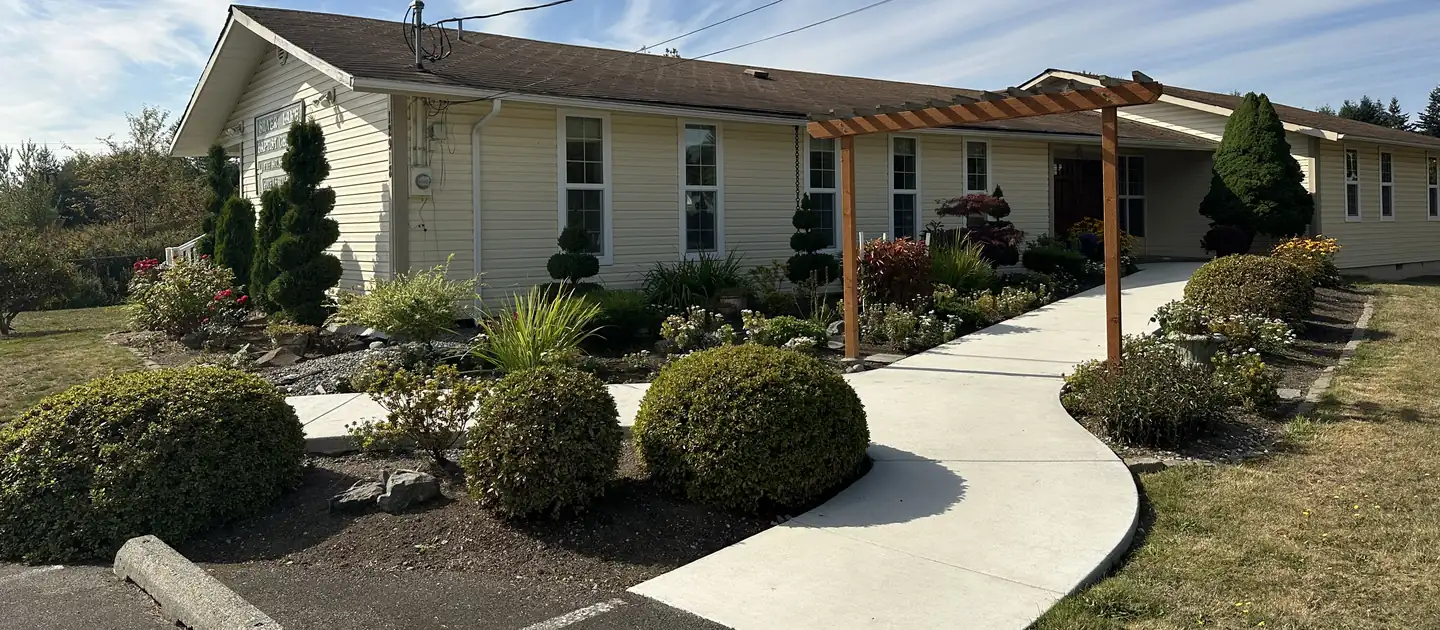
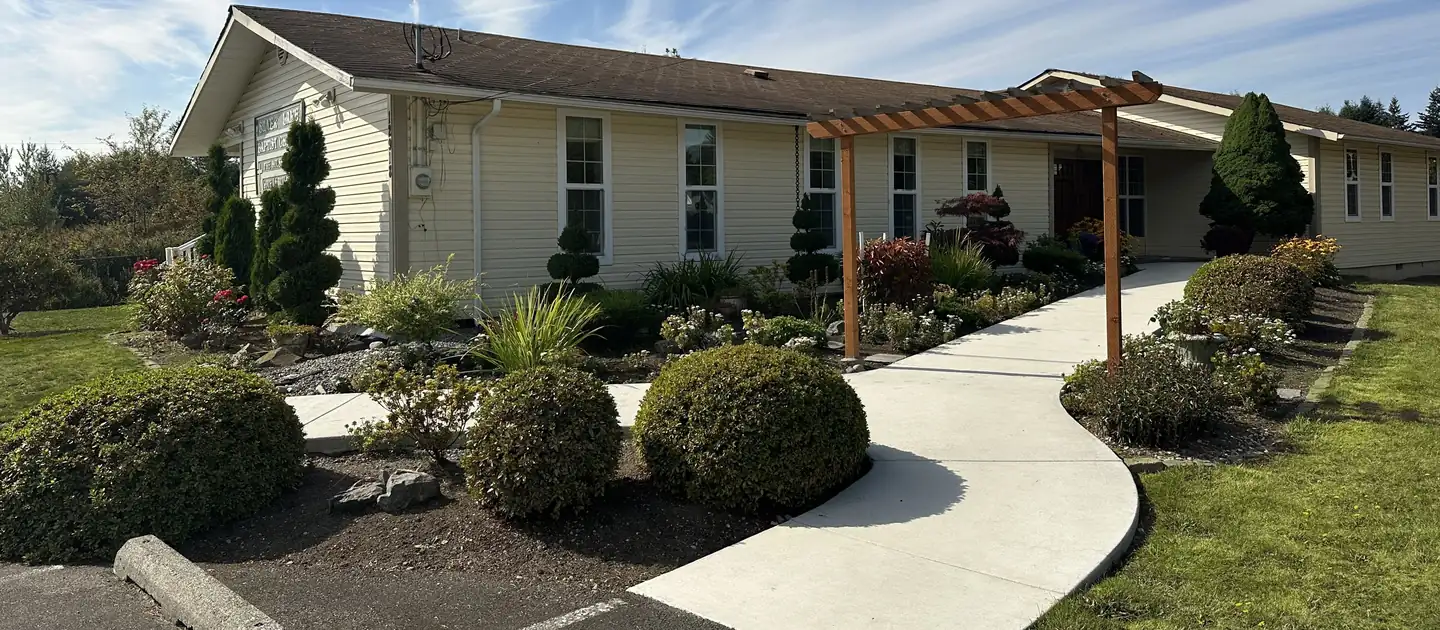
예배 탭 머리 사진: 잔디만 진한 초록 · 하늘의 전깃줄 지움

diff --git a/index.html b/index.html
@@ -1087,7 +1087,7 @@ img.onload=function(){
     
     <h2 class="sec-title"><span class="ko">흩어진 목장이 한자리에</span><span class="en">Scattered homes, gathered as one</span></h2>
     <p class="sec-lead"><span class="ko">주중에 가정에서 모이던 목장들이 주일에 함께 모여, 하나님을 예배하고 말씀 앞에 섭니다.</span><span class="en">The house churches that meet in homes during the week gather on Sunday to worship God and stand before His Word.</span></p>
- <figure class="phw" data-th="p-worship"><img src="/images/nature/worship-venue.webp" width="1800" height="788" loading="lazy" decoding="async" style="object-position:50% 50%" alt="새 예배 처소 Silver Lake Baptist Church 건물과 정원 사이로 난 입구 길"></figure>
+ <figure class="phw" data-th="p-worship"><img src="/images/nature/worship-venue.webp?v=3" width="1800" height="788" loading="lazy" decoding="async" style="object-position:50% 50%" alt="새 예배 처소 Silver Lake Baptist Church 건물과 정원 사이로 난 입구 길"></figure>
     <div class="wk">
       <!-- 오는 주일 예배 -->
       <div class="wk-hero" id="wkHero">

diff --git a/sw.js b/sw.js
@@ -7,7 +7,7 @@
    페이지는 network-first라 내용 수정 때 버전을 올릴 필요 없음.
    캐시 구조를 바꿀 때만 VERSION을 올리세요. (캐시 이름은 'home-' 으로 시작)
    ══════════════════════════════════════════════════════════ */
-const VERSION = 'home-v20261015-215532';
+const VERSION = 'home-v20261015-220353';
 const PAGE_CACHE = VERSION + '-pages';
 const ASSET_CACHE = VERSION + '-assets';
 const PRECACHE = ['/', '/manifest.json', '/favicon.ico', '/images/logo-mark.png', '/images/icon-192-em.png'];
